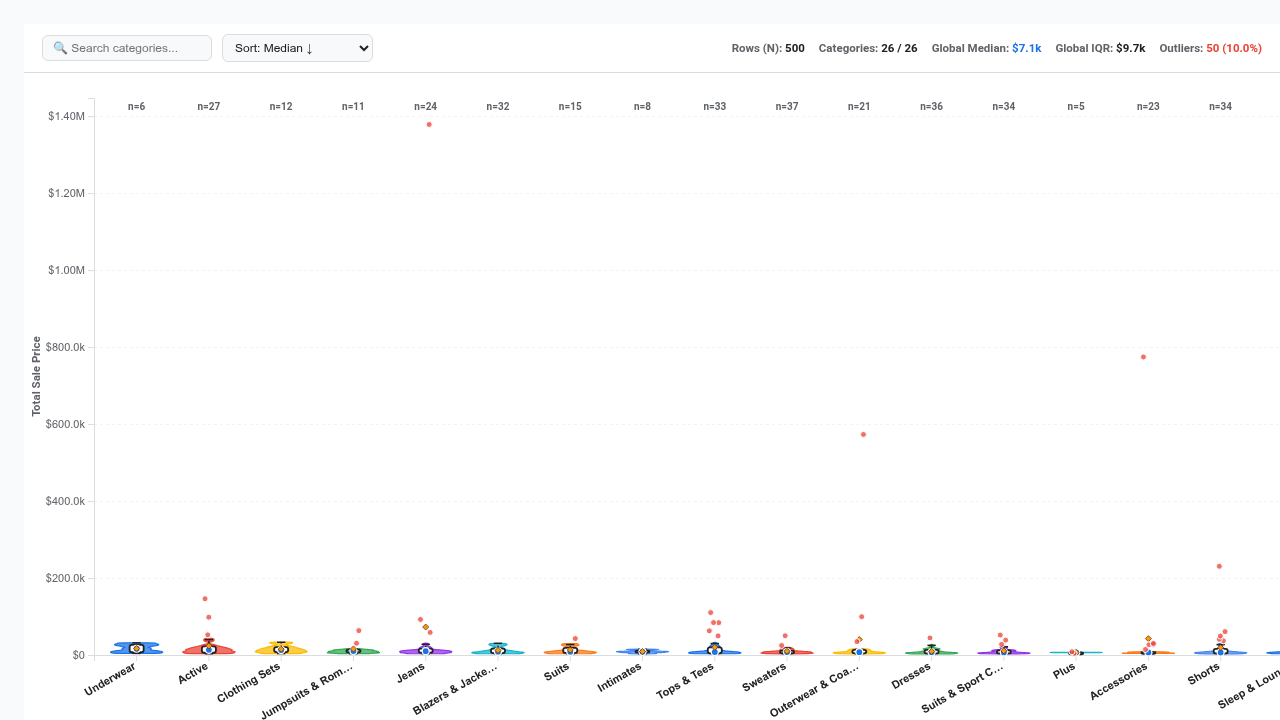
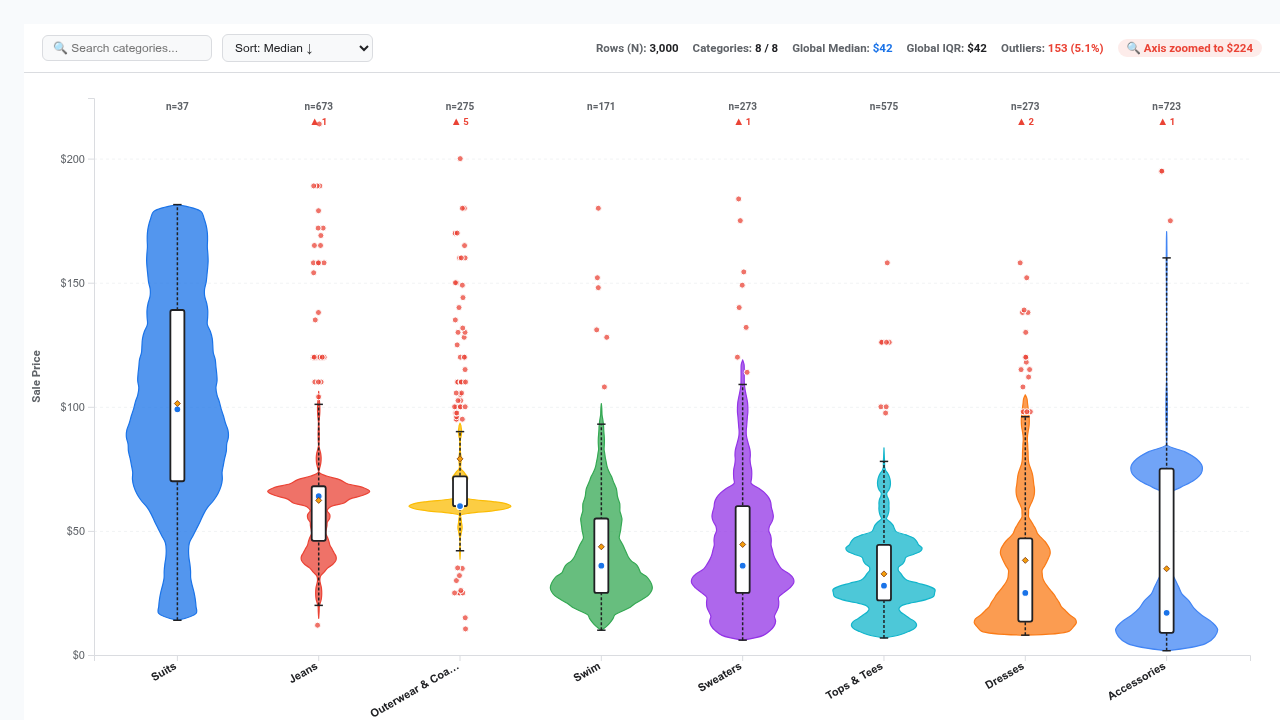
fix(violin): robust Y-axis zoom + raw-observation demo dataset so violins fill the plot

diff --git a/visualizations/violin_distribution_plot/violin_distribution_plot.js b/visualizations/violin_distribution_plot/violin_distribution_plot.js
@@ -242,25 +242,36 @@
     return Math.abs(u) <= 1 ? 0.75 * (1 - u * u) : 0;
   }
 
-  function computeKDE(stats, numSteps) {
+  function computeKDE(stats, numSteps, clipRange) {
     if (!stats || stats.n === 0) return { points: [], maxDensity: 0 };
     var steps = numSteps || 60;
-    
-    // Evaluate over the category's actual data range with slight padding
+
+    // Evaluate between the Tukey fences (the statistical body of the distribution)
+    // rather than the absolute min/max. A lone extreme value would otherwise stretch
+    // the envelope into a hairline spike; those points are drawn as outlier dots.
+    // The range is then intersected with the visible axis window.
     var yStart = stats.whiskerLow;
     var yEnd = stats.whiskerHigh;
-    if (yStart >= yEnd) {
+    if (!(yEnd > yStart)) {
       yStart = stats.min;
       yEnd = stats.max;
     }
-    if (yStart === yEnd) {
-      yStart -= 1;
-      yEnd += 1;
+    if (!(yEnd > yStart)) {
+      yStart = stats.median - 1;
+      yEnd = stats.median + 1;
     }
     var span = yEnd - yStart;
-    var pad = Math.min(span * 0.12, stats.h * 1.2);
+    var pad = Math.min(span * 0.1, stats.h * 1.1);
     yStart = Math.max(stats.min, yStart - pad);
     yEnd = Math.min(stats.max, yEnd + pad);
+    if (clipRange) {
+      yStart = Math.max(yStart, clipRange[0]);
+      yEnd = Math.min(yEnd, clipRange[1]);
+    }
+    if (!(yEnd > yStart)) {
+      yStart = stats.median - 1;
+      yEnd = stats.median + 1;
+    }
 
     var stepSize = (yEnd - yStart) / (steps - 1);
     var densityCurve = [];
@@ -367,26 +378,39 @@
         section: "Display",
         order: 3
       },
+      yAxisScope: {
+        type: "string",
+        label: "Y-Axis Range",
+        default: "robust",
+        display: "select",
+        values: [
+          { "Robust Zoom (Clip Extreme Outliers, Maximize Shape)": "robust" },
+          { "Percentile Clip (1st–99th Percentile)": "p99" },
+          { "Full Range (Include All Extreme Values)": "full" }
+        ],
+        section: "Display",
+        order: 4
+      },
       showOutliers: {
         type: "boolean",
         label: "Show Outlier Points (>1.5x IQR)",
         default: true,
         section: "Display",
-        order: 4
+        order: 5
       },
       showSummaryStats: {
         type: "boolean",
         label: "Show Executive KPI Summary HUD",
         default: true,
         section: "Display",
-        order: 5
+        order: 6
       },
       showSearch: {
         type: "boolean",
         label: "Enable Category Search Bar",
         default: true,
         section: "Display",
-        order: 6
+        order: 7
       },
       valueFormat: {
         type: "string",
@@ -400,7 +424,7 @@
           { "Integer (0)": "integer" }
         ],
         section: "Display",
-        order: 7
+        order: 8
       },
 
       // ==========================================
@@ -560,15 +584,42 @@
       var catField = dimensions[0] ? dimensions[0].name : "Category";
       var catLabel = dimensions[0] ? (dimensions[0].label_short || dimensions[0].label) : "Category";
 
-      // Numeric value field: prefer first measure, otherwise second dimension
+      // Numeric value field resolution.
+      // Raw-observation queries usually carry a primary-key dimension (order_items.id)
+      // purely to defeat SQL de-duplication; blindly grabbing dimensions[1] would plot
+      // row IDs. Score every candidate on whether it actually holds numeric values,
+      // deprioritizing obvious identifier fields.
+      function isIdentifier(name) {
+        return /(^|[._])id$/i.test(name) || /(^|[._]).*_id$/i.test(name);
+      }
+      function numericCount(name) {
+        var hits = 0;
+        for (var i = 0; i < data.length; i++) {
+          var cell = data[i][name];
+          var v = cell ? cell.value : null;
+          if (v !== null && v !== undefined && v !== "" && !isNaN(Number(v))) hits++;
+          if (hits > 3) break;
+        }
+        return hits;
+      }
+
+      var candidates = [];
+      for (var m = 0; m < measures.length; m++) candidates.push(measures[m]);
+      // Skip dimensions[0] (the category lane) and push the rest, identifiers last
+      var dimCandidates = dimensions.slice(1);
+      dimCandidates.sort(function (a, b) {
+        return (isIdentifier(a.name) ? 1 : 0) - (isIdentifier(b.name) ? 1 : 0);
+      });
+      candidates = candidates.concat(dimCandidates);
+
       var valField = null;
       var valLabel = "Value";
-      if (measures.length > 0) {
-        valField = measures[0].name;
-        valLabel = measures[0].label_short || measures[0].label;
-      } else if (dimensions.length > 1) {
-        valField = dimensions[1].name;
-        valLabel = dimensions[1].label_short || dimensions[1].label;
+      for (var cd = 0; cd < candidates.length; cd++) {
+        if (numericCount(candidates[cd].name) > 0) {
+          valField = candidates[cd].name;
+          valLabel = candidates[cd].label_short || candidates[cd].label;
+          break;
+        }
       }
 
       if (!valField) {
@@ -582,6 +633,7 @@
       var displayMode = config.displayMode || "violin_box";
       var bandwidthFactor = config.bandwidthFactor || "auto";
       var scalingMode = config.scalingMode || "shared";
+      var yAxisScope = config.yAxisScope || "robust";
       var showOutliers = config.showOutliers !== false;
       var showSummaryStats = config.showSummaryStats !== false;
       var showSearch = config.showSearch !== false;
@@ -650,17 +702,60 @@
         return;
       }
 
-      // Add a small buffer to globalMin and globalMax
-      var rangeSpan = globalMax - globalMin;
-      if (rangeSpan === 0) rangeSpan = 1;
-      var yDomainMin = Math.max(0, globalMin - rangeSpan * 0.05);
-      if (globalMin < 0) yDomainMin = globalMin - rangeSpan * 0.05;
-      var yDomainMax = globalMax + rangeSpan * 0.05;
+      // --- Y DOMAIN SCOPE ---
+      // Heavily skewed business data (a handful of $1M whale transactions against
+      // a $50 median) collapses every violin into a flat needle when the axis is
+      // forced to the absolute max. Robust scoping zooms the axis to the bulk of
+      // the distribution and flags clipped extremes on each lane instead.
+      var sortedAll = allNumericValues.slice().sort(function (a, b) { return a - b; });
+      function quantileOf(p) {
+        if (sortedAll.length === 0) return 0;
+        var pos = (sortedAll.length - 1) * p;
+        var lo = Math.floor(pos);
+        var hi = Math.ceil(pos);
+        if (lo === hi) return sortedAll[lo];
+        return sortedAll[lo] + (sortedAll[hi] - sortedAll[lo]) * (pos - lo);
+      }
+
+      var scopeMin = globalMin;
+      var scopeMax = globalMax;
+
+      if (yAxisScope === "robust") {
+        // Widest Tukey whisker across categories, so every box and violin body fits
+        var whiskerTop = -Infinity;
+        var whiskerBottom = Infinity;
+        for (var w = 0; w < categoryStats.length; w++) {
+          var ws = categoryStats[w].stats;
+          if (ws.whiskerHigh > whiskerTop) whiskerTop = ws.whiskerHigh;
+          if (ws.whiskerLow < whiskerBottom) whiskerBottom = ws.whiskerLow;
+        }
+        if (isFinite(whiskerTop) && isFinite(whiskerBottom) && whiskerTop > whiskerBottom) {
+          // Allow a little headroom so near-threshold outliers stay visible
+          var wSpan = whiskerTop - whiskerBottom;
+          scopeMax = Math.min(globalMax, whiskerTop + wSpan * 0.18);
+          scopeMin = Math.max(globalMin, whiskerBottom - wSpan * 0.08);
+        }
+      } else if (yAxisScope === "p99") {
+        scopeMin = quantileOf(0.01);
+        scopeMax = quantileOf(0.99);
+      }
+
+      if (!(scopeMax > scopeMin)) {
+        scopeMin = globalMin;
+        scopeMax = globalMax;
+      }
+
+      var rangeSpan = scopeMax - scopeMin;
+      if (rangeSpan === 0) rangeSpan = Math.abs(scopeMax) || 1;
+      var yDomainMin = scopeMin - rangeSpan * 0.05;
+      if (globalMin >= 0 && yDomainMin < 0) yDomainMin = 0;
+      var yDomainMax = scopeMax + rangeSpan * 0.05;
       var yRange = [yDomainMin, yDomainMax];
+      var isClipped = yAxisScope !== "full" && (globalMax > yDomainMax || globalMin < yDomainMin);
 
       // Compute KDE for all categories locally
       for (var k = 0; k < categoryStats.length; k++) {
-        var kde = computeKDE(categoryStats[k].stats, 60);
+        var kde = computeKDE(categoryStats[k].stats, 60, yRange);
         categoryStats[k].kde = kde;
         if (kde.maxDensity > globalMaxDensity) {
           globalMaxDensity = kde.maxDensity;
@@ -789,7 +884,10 @@
           "<div><strong>Categories:</strong> <span style=\"color:" + theme.text + ";font-weight:600;\">" + filteredCategories.length + " / " + categories.length + "</span></div>" +
           "<div><strong>Global Median:</strong> <span style=\"color:" + theme.medianColor + ";font-weight:700;\">" + formatValue(globalStats.median, valueFormat) + "</span></div>" +
           "<div><strong>Global IQR:</strong> <span style=\"color:" + theme.text + ";font-weight:600;\">" + formatValue(globalStats.iqr, valueFormat) + "</span></div>" +
-          "<div><strong>Outliers:</strong> <span style=\"color:" + theme.outlierColor + ";font-weight:600;\">" + globalOutlierCount + " (" + outlierPct + ")</span></div>";
+          "<div><strong>Outliers:</strong> <span style=\"color:" + theme.outlierColor + ";font-weight:600;\">" + globalOutlierCount + " (" + outlierPct + ")</span></div>" +
+          (isClipped
+            ? "<div title=\"Extreme values beyond the zoomed axis are marked ▲/▼ on their lane. Switch Y-Axis Range to 'Full Range' to include them.\" style=\"background:" + theme.outlierColor + "1a;color:" + theme.outlierColor + ";border-radius:20px;padding:2px 9px;font-weight:700;\">🔍 Axis zoomed to " + formatValue(yDomainMax, valueFormat) + "</div>"
+            : "");
 
         headerEl.appendChild(hud);
       }
@@ -827,10 +925,12 @@
       var g = svg.append("g")
         .attr("transform", "translate(" + margin.left + "," + margin.top + ")");
 
-      // Y Scale (Numeric observations)
+      // Y Scale (Numeric observations). Clamped so that a zoomed (robust) domain
+      // can never paint marks outside the plotting area.
       var yScale = d3.scaleLinear()
         .domain(yRange)
-        .range([height, 0]);
+        .range([height, 0])
+        .clamp(true);
 
       // X Scale (Categories band)
       var catNames = filteredCategories.map(function (d) { return d.category; });
@@ -1088,11 +1188,21 @@
         }
 
         // 3. JITTERED SCATTER POINTS (For box_jitter mode, or outlier points in other modes)
+        // Points outside the visible Y domain (robust zoom) are excluded and summarized
+        // as a chevron badge so the axis stays readable without hiding their existence.
+        function inDomain(v) { return v >= yDomainMin && v <= yDomainMax; }
+        var clippedAbove = 0;
+        var clippedBelow = 0;
+        for (var cp = 0; cp < stats.sorted.length; cp++) {
+          if (stats.sorted[cp] > yDomainMax) clippedAbove++;
+          else if (stats.sorted[cp] < yDomainMin) clippedBelow++;
+        }
+
         if (displayMode === "box_jitter") {
           // Render all sample points with pseudo-random jitter
           var jitterWidth = laneWidth * 0.45;
           lane.selectAll(".jitter-dot")
-            .data(stats.sorted)
+            .data(stats.sorted.filter(inDomain))
             .enter()
             .append("circle")
             .attr("class", "jitter-dot")
@@ -1112,7 +1222,7 @@
           // Render only extreme outliers beyond Tukey whiskers
           var outlierJitter = Math.min(16, boxWidth * 0.8);
           lane.selectAll(".outlier-dot")
-            .data(stats.outliers)
+            .data(stats.outliers.filter(inDomain))
             .enter()
             .append("circle")
             .attr("class", "outlier-dot")
@@ -1127,6 +1237,36 @@
             .attr("fill-opacity", 0.75)
             .attr("stroke", "#ffffff")
             .attr("stroke-width", 1);
+        }
+
+        // Clipped extremes badges (only appear when the axis is zoomed)
+        if (clippedAbove > 0) {
+          lane.append("text")
+            .attr("class", "clipped-badge")
+            .attr("x", center)
+            .attr("y", 27)
+            .attr("text-anchor", "middle")
+            .attr("fill", theme.outlierColor)
+            .attr("font-size", "9.5px")
+            .attr("font-weight", "700")
+            .text("▲ " + clippedAbove)
+            .append("title")
+            .text(clippedAbove + " value(s) above " + formatValue(yDomainMax, valueFormat) +
+              " clipped by the zoomed axis (category max " + formatValue(stats.max, valueFormat) + ")");
+        }
+        if (clippedBelow > 0) {
+          lane.append("text")
+            .attr("class", "clipped-badge")
+            .attr("x", center)
+            .attr("y", height - 5)
+            .attr("text-anchor", "middle")
+            .attr("fill", theme.outlierColor)
+            .attr("font-size", "9.5px")
+            .attr("font-weight", "700")
+            .text("▼ " + clippedBelow)
+            .append("title")
+            .text(clippedBelow + " value(s) below " + formatValue(yDomainMin, valueFormat) +
+              " clipped by the zoomed axis (category min " + formatValue(stats.min, valueFormat) + ")");
         }
 
         // Sample Size (N) Label at top of lane

diff --git a/visualizations/violin_distribution_plot/README.md b/visualizations/violin_distribution_plot/README.md
@@ -50,6 +50,7 @@ Designed to address Looker Cloud Blockers **`b/249062272`** (visualizations pari
 | `displayMode` | Select | `Violin + Box Plot` | Layout mode: `violin_box`, `split_violin`, `box_jitter`, `density_silhouette` |
 | `bandwidthFactor` | Select | `Auto (Silverman)` | KDE smoothing bandwidth: `auto`, `smooth` (1.6x), `detailed` (0.7x), `fine` (0.4x) |
 | `scalingMode` | Select | `Shared Global` | Violin width scaling: `shared` (equal density) or `independent` (maximize lane width) |
+| `yAxisScope` | Select | `Robust Zoom` | Y-axis window: `robust` (zoom to Tukey fences, clip extremes), `p99` (1st–99th percentile), `full` (absolute min/max). Clipped values are flagged with ▲/▼ badges on their lane. |
 | `showOutliers` | Boolean | `true` | Toggle outlier scatter dots beyond Tukey whiskers |
 | `showSummaryStats`| Boolean | `true` | Show top executive KPI summary HUD banner |
 | `showSearch` | Boolean | `true` | Enable search-as-you-type filter input |
